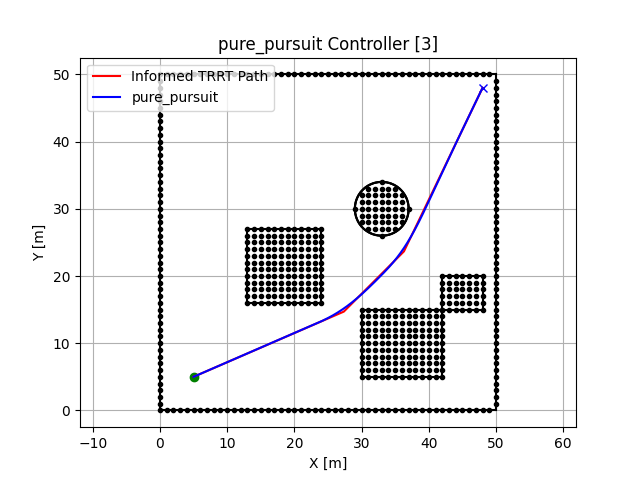
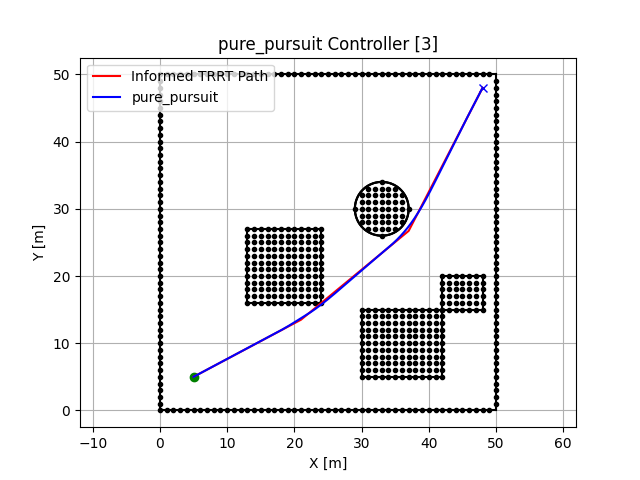
Modify: Mutual Information Global & Local (mpc, pure_pursuit)

Changed region(s): [[0.4062, 0.2812, 0.7188, 0.7188], [0.3125, 0.7188, 0.4062, 0.7812], [0.7188, 0.1875, 0.75, 0.2812]]

diff --git a/controller/hybrid_mi_controller.py b/controller/hybrid_mi_controller.py
@@ -17,50 +17,63 @@ from controller.pure_pursuit_controller import PurePursuitController
 
 from route_planner.informed_trrt_star_planner import Pose, InformedTRRTStar
 
-# Mutual Information을 계산하는 함수
 def mutual_information(state1, state2):
-    """두 상태 간의 Mutual Information 계산"""
+    """Calculate Mutual Information between two states."""
     mi_list = []
     
-    # x, y, theta, velocity 각각에 대해 Mutual Information 계산
-    for i in range(4):  # [x, y, theta, velocity]
-        hist1, _ = np.histogram(state1[:, i], bins=5, density=True)
-        hist2, _ = np.histogram(state2[:, i], bins=5, density=True)
-        print(f"State {i} Histograms: {hist1}, {hist2}")
+    for i in range(3):  # [x, y, theta]
+        # Compute histograms with density=False
+        hist1, _ = np.histogram(state1[:, i], bins=5, density=False)
+        hist2, _ = np.histogram(state2[:, i], bins=5, density=False)
         
+        # Convert to float and add epsilon to avoid zeros
+        hist1 = hist1.astype(float) + 1e-12
+        hist2 = hist2.astype(float) + 1e-12
+        
+        # Normalize histograms
+        hist1 /= np.sum(hist1)
+        hist2 /= np.sum(hist2)
+        # print(f"State {i} Histograms: {hist1}, {hist2}")
+        
+        # Calculate entropy
         entropy1 = entropy(hist1)
         entropy2 = entropy(hist2)
-        print(f"State {i} Entropy: {entropy1}, {entropy2}")
+        # print(f"State {i} Entropy: {entropy1}, {entropy2}")
         
-        joint_hist, _, _ = np.histogram2d(state1[:, i], state2[:, i], bins=5, density=True)
+        # Compute joint histogram and normalize
+        joint_hist, _, _ = np.histogram2d(state1[:, i], state2[:, i], bins=5, density=False)
+        joint_hist = joint_hist.astype(float) + 1e-12
+        joint_hist /= np.sum(joint_hist)
         joint_entropy = entropy(joint_hist.flatten())
-        print(f"Joint Entropy: {joint_entropy}")
+        # print(f"Joint Entropy: {joint_entropy}")
         
-        # Mutual Information 계산
+        # Calculate Mutual Information
         mi = entropy1 + entropy2 - joint_entropy
         mi_list.append(mi)
     
-    # 각 상태에 대한 Mutual Information 반환
     return np.array(mi_list)
 
 # 두 알고리즘의 상태를 결합하는 함수
 def combine_states(state1, state2, mi):
     """Mutual Information 기반으로 상태를 결합"""
     combined_state = np.zeros_like(state1)
+    print(f"State 1: {state1}, State 2: {state2}")
     
     # Mutual Information을 바탕으로 각 상태에 가중치를 부여하여 결합
-    for i in range(4):  # [x, y, theta, velocity]
-        weight1 = mi[i] / (mi[i] + 1)  # Mutual Information 비율에 따른 가중치
-        weight2 = 1 - weight1
+    for i in range(3):  # [x, y, theta, velocity]
+        weight2 = mi[i] / (mi[i] + 1)  # Mutual Information 비율에 따른 가중치
+        weight1 = 1 - weight2
+        print(f"State {i} MI: {mi[i]}, Weights: {weight1}, {weight2}")
         combined_state[:, i] = weight1 * state1[:, i] + weight2 * state2[:, i]
     
+    combined_state[:, 3] = state2[:, 3]  # 속도는 MPC 상태를 사용
     return combined_state
 
 class HybridMIController(BaseController):
     def __init__(self, horizon, dt, wheelbase, map_instance):
         super().__init__(dt, wheelbase, map_instance)
         self.mpc_controller = AdaptiveMPCController(horizon=horizon, dt=dt, wheelbase=wheelbase, map_instance=map_instance)
-        # self.pure_pursuit_controller = PurePursuitController(lookahead_distance=5.0, dt=dt, wheelbase=wheelbase, map_instance=map_instance)
+        self.pure_pursuit_controller = PurePursuitController(lookahead_distance=5.0, dt=dt, wheelbase=wheelbase, map_instance=map_instance)
 
     def follow_trajectory(self, start_pose, ref_trajectory, goal_position, show_process=False):
         # 초기 상태 설정
@@ -74,27 +87,31 @@ class HybridMIController(BaseController):
 
             # MPC와 Pure Pursuit에서 각각의 상태 예측
             ref_segment = ref_trajectory[i:i + self.mpc_controller.horizon]
-            ref_segment_interpole = transform_trajectory_with_angles(ref_segment[:3], num_points=4, last_segment_factor=1)
-            
-            control_input, best_predicted_states = self.mpc_controller.optimize_control(current_state, ref_segment)
-            # next_state_mpc = self.mpc_controller.apply_control(current_state, control_input)
 
-            # target_state = self.pure_pursuit_controller.find_target_state(current_state, ref_trajectory)
+            # global planning
+            ref_segment_interpole = transform_trajectory_with_angles(ref_segment[:3], num_points=4, last_segment_factor=1)
+            # print(f"global planning: {ref_segment_interpole}")
+
+            # local planning: mpc
+            control_input, predicted_states_mpc = self.mpc_controller.optimize_control(current_state, ref_segment)
+            # print(f"local planning mpc: {predicted_states_mpc}")
+
+            # local planning: pure_pursuit
+            target_state = self.pure_pursuit_controller.find_target_state(current_state, ref_trajectory)
+            predicted_states_pursuit = self.predict_trajectory(current_state, target_state)
+            # print(f"local planning pure_pursuit: {predicted_states_pursuit}")
             # steering_angle_pure_pursuit = self.pure_pursuit_controller.compute_control(current_state, target_state)
             # next_state_pure_pursuit = self.pure_pursuit_controller.apply_control(current_state, steering_angle_pure_pursuit, velocity=0.5)
+            
 
-            print(f"Ref Trajectory: {ref_segment_interpole}")
-            print(f"Predicted State MPC: {best_predicted_states}")
-
-            # 현재 스텝에서 두 경로 간의 Mutual Information 계산
-            mi = mutual_information(np.array(ref_segment_interpole), np.array(best_predicted_states))
-            print(f"Mutual Information: {mi}")
-
-            # 두 경로를 결합하여 최적 경로 생성
-            combined_state = combine_states(np.array(ref_segment_interpole), np.array(best_predicted_states), mi)
-
-            # 다음 상태로 업데이트
-            current_state = combined_state[0]
+            if predicted_states_mpc is None:
+                print("Error: MPC failed to produce predicted states.")
+                return False, 0, np.array(trajectory)
+            elif len(predicted_states_mpc) == self.mpc_controller.horizon:
+                # 현재 스텝에서 두 경로 간의 Mutual Information 계산
+                mi = mutual_information(np.array(predicted_states_pursuit), np.array(predicted_states_mpc))
+                combined_state = combine_states(np.array(predicted_states_pursuit), np.array(predicted_states_mpc), mi)
+                current_state = combined_state[0]
             trajectory.append(current_state)
 
             if show_process:
@@ -159,6 +176,9 @@ def main():
         return
 
     ref_trajectory = transform_trajectory_with_angles(route_trajectory_opt)
+
+    # Plot Optimized Path 
+    plt.plot(route_trajectory_opt[:, 0], route_trajectory_opt[:, 1], "-r", label="Informed TRRT* Path")  # Red solid line
 
     horizon = 10  # MPC horizon
     dt = 0.1  # Time step

diff --git a/test/test_route_planner.py b/test/test_route_planner.py
@@ -62,11 +62,11 @@ def main():
     algorithms = {
         "A*": lambda: AStarRoutePlanner(start_pose, goal_pose, map_instance).search_route(show_process),
         "Theta*": lambda: ThetaStar(start_pose, goal_pose, map_instance).search_route(show_process),
-        "Hybrid A*": lambda: HybridAStarRoutePlanner(start_pose, goal_pose, map_instance).search_route(show_process),
+        "HybridA*": lambda: HybridAStarRoutePlanner(start_pose, goal_pose, map_instance).search_route(show_process),
         "RRT*": lambda: RRTStar(start_pose, goal_pose, map_instance).search_route(show_process),
-        "Informed RRT*": lambda: InformedRRTStar(start_pose, goal_pose, map_instance, show_eclipse=show_process).search_route(show_process=show_process),
-        "Informed RRT*(smoothing)": lambda: InformedRRTSmoothStar(start_pose, goal_pose, map_instance, show_eclipse=show_process).search_route(show_process=show_process),
-        "Informed TRRT*": lambda: InformedTRRTStar(start_pose, goal_pose, map_instance, show_eclipse=show_process).search_route(show_process=show_process),
+        "InformedRRT*": lambda: InformedRRTStar(start_pose, goal_pose, map_instance, show_eclipse=show_process).search_route(show_process=show_process),
+        "InformedSmoothingRRT*": lambda: InformedRRTSmoothStar(start_pose, goal_pose, map_instance, show_eclipse=show_process).search_route(show_process=show_process),
+        "InformedTRRT*": lambda: InformedTRRTStar(start_pose, goal_pose, map_instance, show_eclipse=show_process).search_route(show_process=show_process),
     }
 
     # 각 알고리즘의 성능 측정 및 실패 여부 확인

diff --git a/controller/base_controller.py b/controller/base_controller.py
@@ -172,6 +172,7 @@ class BaseController:
 
                 # Plot the new prediction lines
                 predicted_trajectory = self.predict_trajectory(current_state, target_state)
+                print(f"predicted_trajectory: {predicted_trajectory}")
                 predicted_lines.append(plt.plot(predicted_trajectory[:, 0], predicted_trajectory[:, 1], "b-", label="Predicted Path")[0])
                 colors = ["g--", "r--"]
                 # labels = ["Left Avoid Path", "Right Avoid Path"]

diff --git a/test/test_controller.py b/test/test_controller.py
@@ -189,7 +189,7 @@ def main():
 
     # Adjust layout and show plot
     plt.tight_layout()  # Ensure there's enough space between the plots
-    plt.savefig("results/test_route_planner/performance_route_planner.png")
+    plt.savefig("results/test_controller/performance_controller.png")
 
 if __name__ == "__main__":
     main()
